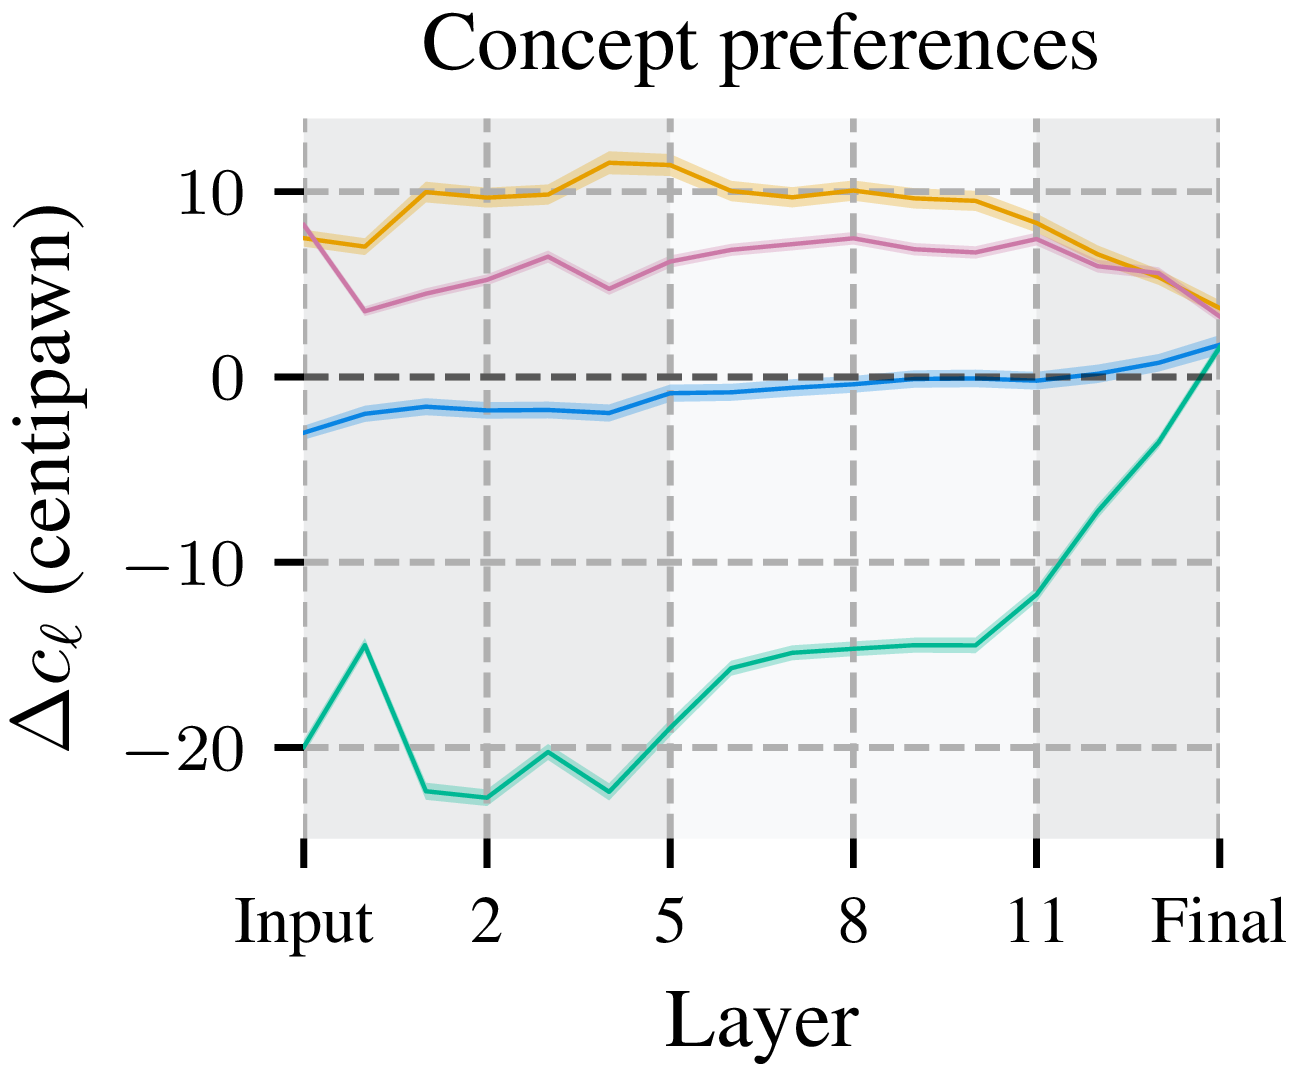
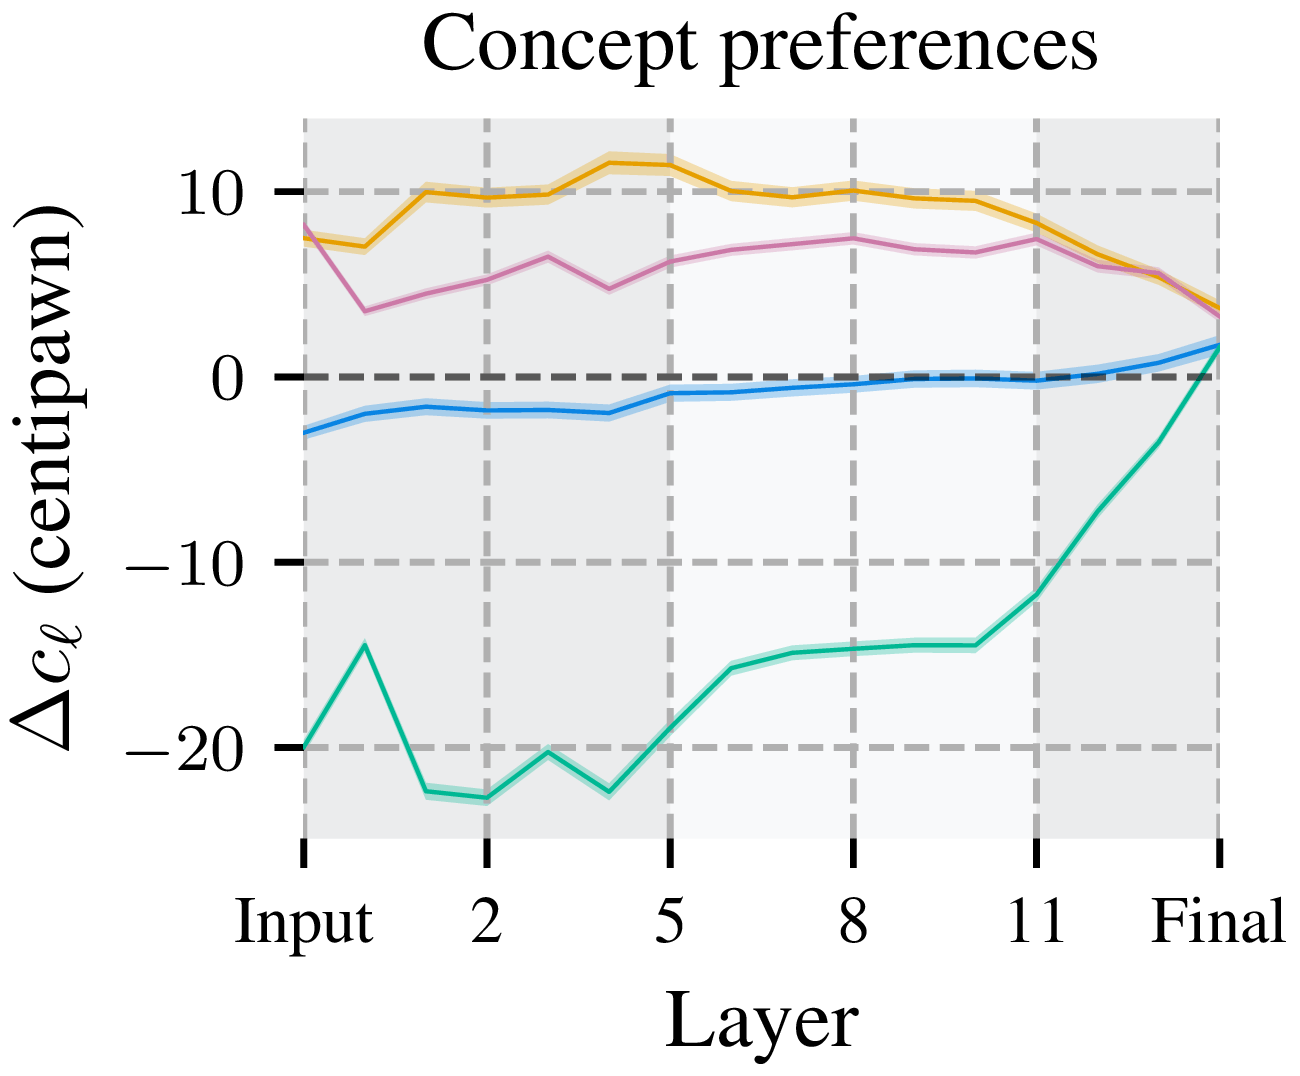
Camera-ready numbers and search experiments; live Lichess ratings, cards open bot profiles

diff --git a/index.html b/index.html
@@ -12,7 +12,7 @@
   <link rel="preconnect" href="https://fonts.googleapis.com" />
   <link rel="preconnect" href="https://fonts.gstatic.com" crossorigin />
   <link href="https://fonts.googleapis.com/css2?family=Inter:wght@400;500;600;700&family=JetBrains+Mono:wght@400;500&family=Newsreader:ital,opsz,wght@0,6..72,400;0,6..72,500;0,6..72,600;1,6..72,400;1,6..72,600&family=Space+Grotesk:wght@400;500;700&display=swap" rel="stylesheet" />
-  <link rel="stylesheet" href="assets/css/site.css?v=20261030-2" />
+  <link rel="stylesheet" href="assets/css/site.css?v=20261030-5" />
 </head>
 <body>
   <a class="sr-only sr-only--focusable" href="#tldr">Skip to summary</a>
@@ -91,7 +91,7 @@
           Reading out Leela's policy layer by layer, we find puzzles whose solution, often a checkmate, is found in the
           middle layers and then <em>overridden</em> at the output. On these <em>forgotten puzzles</em>, look-ahead is still present
           and causally involved. What changes is in the last layers, which shift toward safe, quiet play. Steering against that shift
-          recovers most of the forgotten solutions.
+          recovers most of the forgotten solutions, and Leela's own training target, computed by search, would have chosen them.
         </p>
         <p class="tldr__punch">A model can internally solve a problem and still output the wrong answer.</p>
       </div>
@@ -156,18 +156,21 @@
       <p>
         Is the algorithm failing? We repeat <a href="https://leela-interp.github.io/">Jenner et al.'s</a> look-ahead analyses on the forgotten set.
         The future moves of the correct line are <b>represented, causally important and linearly decodable</b>, as on puzzles the network solves.
-        Look-ahead is present and contributes; what the final layers do with it is the difference.
+        In the Figure&nbsp;1 puzzle, cutting the single L12H12 attention entry that carries d1's information to f1 lowers
+        <span class="mono">…Qxf1+</span> from 5.8% to 1.0%. Look-ahead is present and contributes; what the final layers do with it
+        is the difference. The override itself comes at the very end: <span class="num">63%</span> of forgotten puzzles are still
+        solved after the last attention sublayer, so it happens in the final feed-forward layer.
       </p>
       <figure class="figure figure--paper figure--wide">
         <img src="assets/figures/forgotten_act_patching.png" alt="Activation patching on forgotten puzzles: the effect of patching the third-move target square stands out in the middle layers compared with other squares." loading="lazy" width="2400" height="640" />
         <div class="figure__row">
-          <img src="assets/figures/forgotten_head_ablation.png" alt="Ablating the single attention entry of head L12H12 from the first-move target to the third-move target reduces the solution's log-odds far more than any other entry." loading="lazy" width="2070" height="1082" />
+          <img src="assets/figures/forgotten_head_ablation.png" alt="Ablating the single attention entry of head L12H12 that carries information from the third-move target to the first-move target reduces the solution's log-odds far more than any other entry." loading="lazy" width="2070" height="1082" />
           <img src="assets/figures/forgotten_probing.png" alt="A bilinear probe predicts the third move of the solution from intermediate activations with high accuracy in the middle layers, far above a randomly initialised model." loading="lazy" width="1438" height="1087" />
         </div>
         <figcaption>
           <b>Top:</b> patching the 3rd-move target square matters most in middle layers.
-          <b>Bottom left:</b> one attention entry of head L12H12 (1st → 3rd move target) beats all 4,095 others in <span class="num">62%</span> of forgotten puzzles.
-          <b>Bottom right:</b> a bilinear probe predicts the 3rd move with <span class="num">79%</span> accuracy at layer 12 (solved puzzles: <span class="num">90%</span>).
+          <b>Bottom left:</b> one attention entry of head L12H12 (3rd → 1st move target) beats all 4,095 others in <span class="num">62%</span> of forgotten puzzles.
+          <b>Bottom right:</b> a bilinear probe predicts the 3rd move with up to <span class="num">79%</span> accuracy (solved puzzles: <span class="num">90%</span>).
         </figcaption>
       </figure>
     </section>
@@ -179,17 +182,19 @@
         Since the network swaps forcing sacrifices for quiet moves, we measure which chess concepts each layer's policy prefers, using
         Stockfish's hand-crafted evaluation terms as interpretable proxies. Late layers move toward <em>own king safety</em> and
         <em>fewer threats from the opponent</em>, which we call <em>safety priors</em>. Gradient-based steering against these concepts
-        after layer 13 raises the solve rate on held-out puzzles from <span class="num">88.5%</span> to <span class="num">92.3%</span> and recovers
-        <span class="num">63%</span> of forgotten puzzles. On the separate forgotten dataset it recovers <span class="num">72%</span>.
+        works best after layer 13, steering the network to worry less about the opponent's threats. It raises the solve rate on held-out
+        puzzles from <span class="num">88.6%</span> to <span class="num">92.4%</span>, recovers <span class="num">62%</span> of the forgotten
+        puzzles and solves <span class="num">34%</span> of the puzzles that no layer had solved. On the separate forgotten dataset it
+        recovers <span class="num">72%</span>.
         Random directions of the same norm recover about <span class="num">10%</span>.
       </p>
       <figure class="figure figure--paper">
         <div class="figure__row figure__row--fig6">
-          <img src="assets/figures/concept_preferences_panel.png" alt="Concept preference by layer for four safety concepts: own king safety and opponent threats shift in the safe direction in the last layers." loading="lazy" width="1299" height="1076" />
-          <img src="assets/figures/steering_effects_panel.png" alt="Held-out solve rate after steering at each layer for the four safety concepts, compared with the unsteered model and random directions; the largest gain is late in the network." loading="lazy" width="1243" height="1076" />
+          <img src="assets/figures/concept_preferences_panel.png" alt="Concept preference by layer for four safety concepts: own king safety and opponent threats shift in the safe direction in the last layers." loading="lazy" width="1300" height="1076" />
+          <img src="assets/figures/steering_effects_panel.png" alt="Held-out solve rate after steering at each layer for the four safety concepts, compared with the unsteered model and random directions; the largest gain is late in the network." loading="lazy" width="1245" height="1076" />
           <img class="figure__legend" src="assets/figures/concept_legend.png" alt="Legend: king safety (opponent), threats (mine), king safety (mine), threats (opponent)." loading="lazy" width="648" height="474" />
         </div>
-        <figcaption><b>Left:</b> concept preference of each layer's policy. <b>Right:</b> held-out solve rate when steering at each layer (band: spread over 200 random 50/50 splits).</figcaption>
+        <figcaption><b>Left:</b> concept preference of each layer's policy. <b>Right:</b> held-out solve rate when steering at each layer (band: one standard deviation over 200 random 50/50 splits).</figcaption>
       </figure>
 
       <h3 class="explorer-title">Try it: steer a forgotten puzzle</h3>
@@ -200,7 +205,7 @@
       </p>
       <div id="steer-explorer"></div>
       <p class="note">
-        The examples are selected. Across the held-out evaluation, the paper's setting recovers <span class="num">62.9 ± 3.4%</span> of forgotten puzzles.
+        The examples are selected. The paper's best setting recovers <span class="num">62.4%</span> of the forgotten puzzles in the 10k set.
         Of the 353 forgotten puzzles in the 10k set whose first move is wrong, 37 are recovered by none of the 32 settings shown here (four directions × eight strengths),
         such as <span class="mono">3aGwk</span>, <span class="mono">CkzuP</span> and <span class="mono">LktHH</span>.
       </p>
@@ -208,14 +213,31 @@
 
     <section class="wrap prose" id="scope">
       <h2>What about search?</h2>
-      <div class="callout">
-        <p>
-          Our claims concern Leela's <b>policy network</b> on its own. In deployment, Leela runs Monte Carlo tree search, and its value head
-          rates the positions after the correct move correctly. With search, the network finds almost all forgotten solutions:
-          <span class="num">97.5%</span> at 800 nodes. Search can fix what the policy overrides, but it has to spend nodes doing so.
-          A policy that read out the penultimate layers needs fewer of them.
-        </p>
-      </div>
+      <p>
+        Our claims concern Leela's <b>policy network</b> on its own. But the policy is not trained to solve puzzles: in self-play, each
+        move is chosen by a tree search guided by the network, and the policy learns to match where that search spent its visits.
+        Could this training target itself prefer the quiet move? We run the self-play search, with the settings of the run that trained
+        this network, on every forgotten puzzle. The target puts on average <span class="num">93%</span> of its visits on the solution,
+        and the solution is its most visited move in <span class="num">99.4%</span> of puzzles. The penultimate layer is closer to that
+        target than the final layer in <span class="num">78%</span> of forgotten puzzles. Had these positions come up in training, the
+        objective would have asked for the solution; the override comes from a prior that is sensible on typical positions.
+      </p>
+      <figure class="figure figure--paper">
+        <div class="figure__row figure__row--even">
+          <img src="assets/figures/search_training_target.png" alt="On forgotten puzzles, the training target puts around 90 to 100% on the correct move, while the penultimate and final layers mostly give it less than 40%, the final layer least." loading="lazy" width="2068" height="1184" />
+          <img src="assets/figures/search_deployment.png" alt="Engine solve rate by search budget: on forgotten puzzles the final-layer policy starts at 0% with one node and needs more nodes than a penultimate-layer policy to catch up; on solved puzzles it is ahead at small budgets." loading="lazy" width="2068" height="1280" />
+        </div>
+        <figcaption>
+          <b>Left:</b> probability on the correct move of forgotten puzzles under the training target, the penultimate layer and the final layer.
+          <b>Right:</b> how often the engine plays the solution at each search budget, with the policy read from the final layer (blue) or the
+          penultimate layer (orange). Red: what the final layer costs on forgotten puzzles; green: what it gains on solved ones.
+        </figcaption>
+      </figure>
+      <p>
+        In deployment, Leela runs this search, and with enough of it the engine finds the forgotten solutions: <span class="num">97.8%</span>
+        at 800 nodes. The final layer makes this more expensive. With 8 nodes the engine finds <span class="num">54%</span> of them; with
+        a policy read from the penultimate layer, <span class="num">75%</span>. On puzzles the network already solves, the final layer helps instead.
+      </p>
     </section>
 
     <section class="wrap prose" id="implications">
@@ -239,7 +261,7 @@
         <summary>Is steering just adding noise until the quiet move loses its lead?</summary>
         <p>
           No. Flattening a distribution, for example by raising its temperature, never changes which move is on top, so it cannot solve a puzzle.
-          Steering changes the ranking: it raises the solve rate on <em>all</em> puzzles from 88.5% to 92.3% (held-out), which noise would lower.
+          Steering changes the ranking: it raises the solve rate on <em>all</em> puzzles from 88.6% to 92.4% (held-out), which noise would lower.
           Random directions of the same norm recover about 10% of forgotten puzzles. And steering along <em>king safety (opp.)</em> recovers 57% of them
           with no change in the median entropy of the output. The explorer above shows the full distribution and its entropy for each case.
         </p>
@@ -248,8 +270,8 @@
         <summary>Doesn't the readout decide what counts as "solved"?</summary>
         <p>
           The logit lens decodes intermediate layers with the network's own policy head, without training a decoder. A learned decoder fitted
-          to match the final output would remove the phenomenon by construction. Keeping the normalisation biases instead of zeroing them leaves
-          97.4% of forgotten puzzles unchanged, and the intermediate policies play coherent chess (the layer bots below).
+          to match the final output would remove the phenomenon by construction. Keeping the normalisation biases instead of zeroing them changes
+          the solve rate by at most 2.7 percentage points at any layer and leaves the forgotten puzzles nearly unchanged, and the intermediate policies play coherent chess (the layer bots below).
         </p>
       </details>
       <details class="qa">
@@ -312,9 +334,9 @@
         <h3 class="play__or">Or challenge it on Lichess</h3>
         <div class="bots" id="bot-list"></div>
         <p class="note">
-          Challenging needs a free Lichess account; the bots play bullet, blitz and rapid, rated or casual. Ratings are Lichess
-          blitz ratings from 28 October 2026 (the paper's snapshot). A green dot means the bot is online, orange that it is in a
-          game; your challenge then waits until the game ends.
+          Each card opens the bot's Lichess profile, where you can challenge it with a free Lichess account; the bots play bullet,
+          blitz and rapid, rated or casual. Ratings are their current Lichess blitz ratings; the paper reports a snapshot from
+          28 October 2026. A green dot means the bot is online, orange that it is in a game; a challenge then waits until the game ends.
         </p>
       </details>
       <details class="more">
@@ -356,18 +378,18 @@
     </div>
   </footer>
 
-  <script src="data/pieces.js?v=20261030-2"></script>
-  <script src="data/index.js?v=20261030-2"></script>
-  <script src="data/steering_aggregates.js?v=20261030-2"></script>
-  <script src="data/figure2.js?v=20261030-2"></script>
-  <script src="assets/js/board.js?v=20261030-2"></script>
-  <script src="assets/js/steer-data.js?v=20261030-2"></script>
-  <script src="assets/js/lens-figure.js?v=20261030-2"></script>
-  <script src="assets/js/network-figure.js?v=20261030-2"></script>
-  <script src="assets/js/steer.js?v=20261030-2"></script>
-  <script src="assets/js/site.js?v=20261030-2"></script>
-  <script src="data/lc0-moves.js?v=20261030-2"></script>
-  <script src="assets/js/lc0-input.js?v=20261030-2"></script>
-  <script src="assets/js/play.js?v=20261030-2"></script>
+  <script src="data/pieces.js?v=20261030-5"></script>
+  <script src="data/index.js?v=20261030-5"></script>
+  <script src="data/steering_aggregates.js?v=20261030-5"></script>
+  <script src="data/figure2.js?v=20261030-5"></script>
+  <script src="assets/js/board.js?v=20261030-5"></script>
+  <script src="assets/js/steer-data.js?v=20261030-5"></script>
+  <script src="assets/js/lens-figure.js?v=20261030-5"></script>
+  <script src="assets/js/network-figure.js?v=20261030-5"></script>
+  <script src="assets/js/steer.js?v=20261030-5"></script>
+  <script src="assets/js/site.js?v=20261030-5"></script>
+  <script src="data/lc0-moves.js?v=20261030-5"></script>
+  <script src="assets/js/lc0-input.js?v=20261030-5"></script>
+  <script src="assets/js/play.js?v=20261030-5"></script>
 </body>
 </html>

diff --git a/assets/js/site.js b/assets/js/site.js
@@ -147,31 +147,49 @@
 
   // ---- Lichess bots ----
   // Blitz ratings frozen for the paper's Table 4 (2026-10-28 13:43 UTC), in K order: input, layers 0–13, full network.
+  // They are shown until the live ratings arrive, and stay if Lichess cannot be reached.
   const names = ["In"].concat([...Array(14).keys()].map(String), ["Full"]);
   const labels = names.map((n) => (n === "In" ? "Input" : n === "Full" ? "Full network" : `Layer ${n}`));
   const blitz = [545, 631, 611, 655, 740, 723, 815, 815, 827, 906, 952, 860, 946, 1205, 1482, 2099];
-  window.LLL_BOTS = { labels, blitz }; // also for the play board (play.js)
+  window.LLL_BOTS = { labels, blitz }; // also for the play board (play.js), which listens for "lll-bots"
   const bots = document.getElementById("bot-list");
   if (bots) {
-    bots.innerHTML = names.map((n, i) => {
-      const label = labels[i];
-      const bot = `LLLBot-${n}`;
-      return `<div class="bot" data-bot="${bot.toLowerCase()}">` +
-        `<a class="bot__go" href="https://lichess.org/?user=${bot}#friend" target="_blank" rel="noopener" title="Challenge ${bot} on Lichess">` +
-        `<span class="bot__k"><span class="bot__dot" aria-hidden="true"></span>${label}</span><span class="bot__elo mono">${blitz[i]} blitz</span></a>` +
-        `<a class="bot__tv" href="https://lichess.org/@/${bot}/tv" target="_blank" rel="noopener" title="Watch ${bot} play">Watch</a></div>`;
-    }).join("");
-    // Online status from Lichess; without it the cards simply show no dot.
-    fetch(`https://lichess.org/api/users/status?ids=${names.map((n) => "LLLBot-" + n).join(",")}`)
-      .then((r) => r.json())
-      .then((list) => list.forEach((u) => {
-        const card = bots.querySelector(`[data-bot="${u.id}"]`);
-        if (!card) return;
-        card.classList.toggle("is-online", !!u.online);
-        card.classList.toggle("is-playing", !!u.playing);
-        card.querySelector(".bot__dot").title = u.playing ? "playing a game" : u.online ? "online" : "offline";
-      }))
-      .catch(() => {});
+    const ids = names.map((n) => `LLLBot-${n}`);
+    bots.innerHTML = ids.map((bot, i) =>
+      `<div class="bot" data-bot="${bot.toLowerCase()}">` +
+      `<a class="bot__go" href="https://lichess.org/@/${bot}" target="_blank" rel="noopener" title="${bot} on Lichess">` +
+      `<span class="bot__k"><span class="bot__dot" aria-hidden="true"></span>${labels[i]}</span><span class="bot__elo mono">${blitz[i]} blitz</span></a>` +
+      `<a class="bot__tv" href="https://lichess.org/@/${bot}/tv" target="_blank" rel="noopener" title="Watch ${bot} play">Watch</a></div>`).join("");
+    const card = (id) => bots.querySelector(`[data-bot="${id.toLowerCase()}"]`);
+    // Live online status and blitz ratings from Lichess, refreshed every few minutes while the page is open.
+    const refresh = () => {
+      if (document.hidden) return;
+      fetch(`https://lichess.org/api/users/status?ids=${ids.join(",")}`)
+        .then((r) => r.json())
+        .then((list) => list.forEach((u) => {
+          const c = card(u.id);
+          if (!c) return;
+          c.classList.toggle("is-online", !!u.online);
+          c.classList.toggle("is-playing", !!u.playing);
+          c.querySelector(".bot__dot").title = u.playing ? "playing a game" : u.online ? "online" : "offline";
+        }))
+        .catch(() => {});
+      fetch("https://lichess.org/api/users", { method: "POST", body: ids.join(",") })
+        .then((r) => r.json())
+        .then((list) => {
+          list.forEach((u) => {
+            const i = ids.findIndex((id) => id.toLowerCase() === u.id);
+            const r = u.perfs && u.perfs.blitz && u.perfs.blitz.rating;
+            if (i < 0 || !r) return;
+            blitz[i] = r;
+            card(u.id).querySelector(".bot__elo").textContent = `${r} blitz`;
+          });
+          document.dispatchEvent(new Event("lll-bots"));
+        })
+        .catch(() => {});
+    };
+    refresh();
+    setInterval(refresh, 3 * 60 * 1000);
   }
 
   // ---- BibTeX copy ----

diff --git a/assets/css/site.css b/assets/css/site.css
@@ -159,8 +159,9 @@ main > section.prose { padding: 40px 16px; }
 .figure--wide { margin-left: -60px; margin-right: -60px; }
 .figure__row { display: grid; grid-template-columns: 1.45fr 1fr; gap: 16px; margin-top: 16px; align-items: end; }
 .figure__row--fig6 { grid-template-columns: 1fr 1fr .5fr; align-items: center; margin-top: 0; }
+.figure__row--even { grid-template-columns: 1fr 1fr; align-items: center; margin-top: 0; }
 @media (max-width: 860px) { .figure--wide { margin-left: 0; margin-right: 0; } }
-@media (max-width: 620px) { .figure__row, .figure__row--fig6 { grid-template-columns: 1fr; } .figure__legend { max-width: 220px; } }
+@media (max-width: 620px) { .figure__row, .figure__row--fig6, .figure__row--even { grid-template-columns: 1fr; } .figure__legend { max-width: 220px; } }
 
 .split { display: grid; grid-template-columns: 1fr 300px; gap: 32px; align-items: start; }
 .figure--narrow figcaption { font-size: .8rem; }

diff --git a/assets/js/play.js b/assets/js/play.js
@@ -291,6 +291,7 @@
   }
 
   ui.range.addEventListener("input", showLayer);
+  document.addEventListener("lll-bots", showLayer); // live Lichess ratings arrived
   root.querySelector('[data-act="white"]').addEventListener("click", () => newGame("w"));
   root.querySelector('[data-act="black"]').addEventListener("click", () => newGame("b"));
   ui.undo.addEventListener("click", takeBack);
